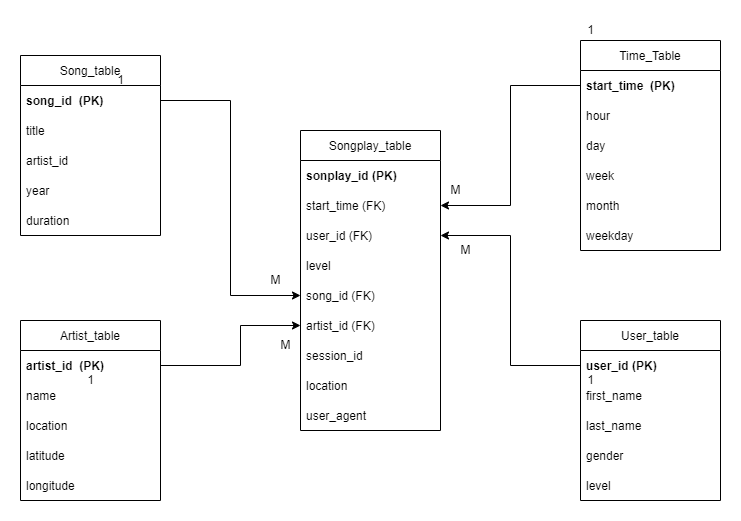
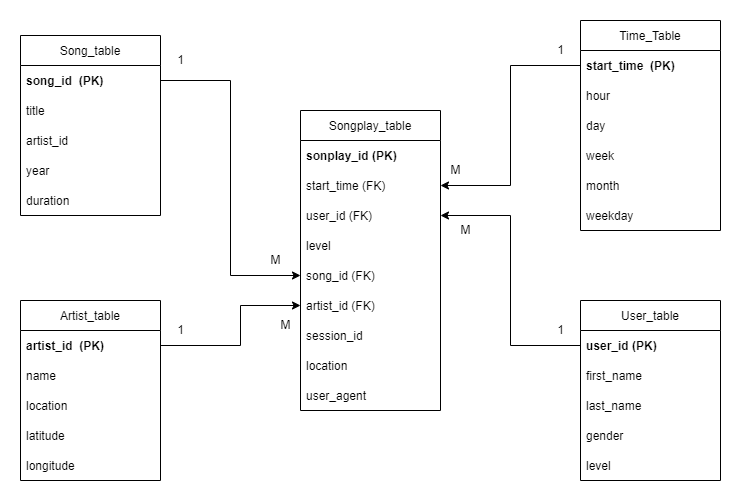
Update project description

diff --git a/README.md b/README.md
@@ -1,2 +1,115 @@
 # Data Modeling with Postgres
- Udacity - Data Engineering Nanodegree - Project 1
+
+### Introduction
+
+A startup called Sparkify wants to analyze the data they've been collecting on songs and user activity on their new music streaming app. The analytics team is particularly interested in understanding what songs users are listening to. Currently, they don't have an easy way to query their data, which resides in a directory of JSON logs on user activity on the app, as well as a directory with JSON metadata on the songs in their app.
+
+They'd like a data engineer to create a Postgres database with tables designed to optimize queries on song play analysis, and bring you on the project. Your role is to create a database schema and ETL pipeline for this analysis. You'll be able to test your database and ETL pipeline by running queries given to you by the analytics team from Sparkify and compare your results with their expected results.
+
+### Project Description
+
+In this project, you'll apply what you've learned on data modeling with Postgres and build an ETL pipeline using Python. To complete the project, you will need to define fact and dimension tables for a star schema for a particular analytic focus, and write an ETL pipeline that transfers data from files in two local directories into these tables in Postgres using Python and SQL.
+
+## Prerequisites
+
+This project makes the folowing assumptions:
+
+-   Python 3 is available
+-   `pandas`  and  `psycopg2`  are available
+-   A PosgreSQL database is available on localhost.
+
+## Running the Python Scripts
+
+At the terminal:
+
+1.  `python create_tables.py`
+2.  `python etl.py`
+
+In IPython:
+
+1.  `run create_tables.py`
+2.  `run etl.py`
+
+## Database Schema
+
+After examining the Log and Song JSON files, I created a Star schema (shown below) that include one Fact table (songplays) and 4 Dimension tables.
+
+<img src="Sparkify_ERD.png" alt="ERD Diagram" width="800"/>
+
+This design will offer flexibility with the queries being used for analysis.
+
+
+##  ETL Process
+
+###  Song Dataset
+
+The first dataset is a subset of real data from the Million Song Dataset. Each file is in JSON format and contains metadata about a song and the artist of that song. The files are partitioned by the first three letters of each song's track ID. For example, here are filepaths to two files in this dataset.
+
+```
+song_data/A/B/C/TRABCEI128F424C983.json
+song_data/A/A/B/TRAABJL12903CDCF1A.json
+```
+
+And below is an example of what a single song file, TRAABJL12903CDCF1A.json, looks like.
+
+```
+{
+"num_songs": 1,
+"artist_id": "ARJIE2Y1187B994AB7",
+"artist_latitude": null,
+"artist_longitude": null,
+"artist_location": "",
+"artist_name": "Line Renaud",
+"song_id": "SOUPIRU12A6D4FA1E1",
+"title": "Der Kleine Dompfaff",
+"duration": 152.92036,
+"year": 0
+}
+```
+
+This information is parsed to populate the Songs and Artists Dimension tables.
+
+###  Log Dataset
+
+The log files in the dataset are partitioned by year and month. For example, here are filepaths to two files in this dataset.
+
+```
+log_data/2018/11/2018-11-12-events.json
+log_data/2018/11/2018-11-13-events.json
+```
+
+This data contains information of which songs Users listened to at a specific time. Information is parsed to provide data for the Songplays Fact table and the Users and Time Dimension tables. The ```songplays.artist_id``` and ```songplays.song_id``` columns are populated by a lookup based on the Song Title, Artist Name and song Duration.
+
+##  Description of Files
+
+###  Directory: data/log_data
+
+This directory contains a collection of JSON log files. These files are used to populate our Fact table - SongPlay_table - and to populate the Dimension tables for User_table and Time_table.
+
+###  Directory: data/song_data
+
+This directory contains a collection of Song JSON files. These files are used to populate Dimension tables for Song_table and Artist_Table.
+
+##  create_tables.py
+
+This Python script recreates the database and tables used to store the data.
+
+##  etl.ipynb
+
+A Python Jupyter Notebook that was used to initially explore the data and test the ETL process.
+
+##  etl.py
+
+This Python script reads in the Log and Song data files, processes and inserts data into the database.
+
+##  requirements.txt
+
+A list of Python modules used by this project.
+
+##  sql_queries.py
+
+A Python script that defines all the SQL statements used by this project.
+
+##  test.ipynb
+
+A Python Jupyter Notebook that was used to test that data was loaded properly.
